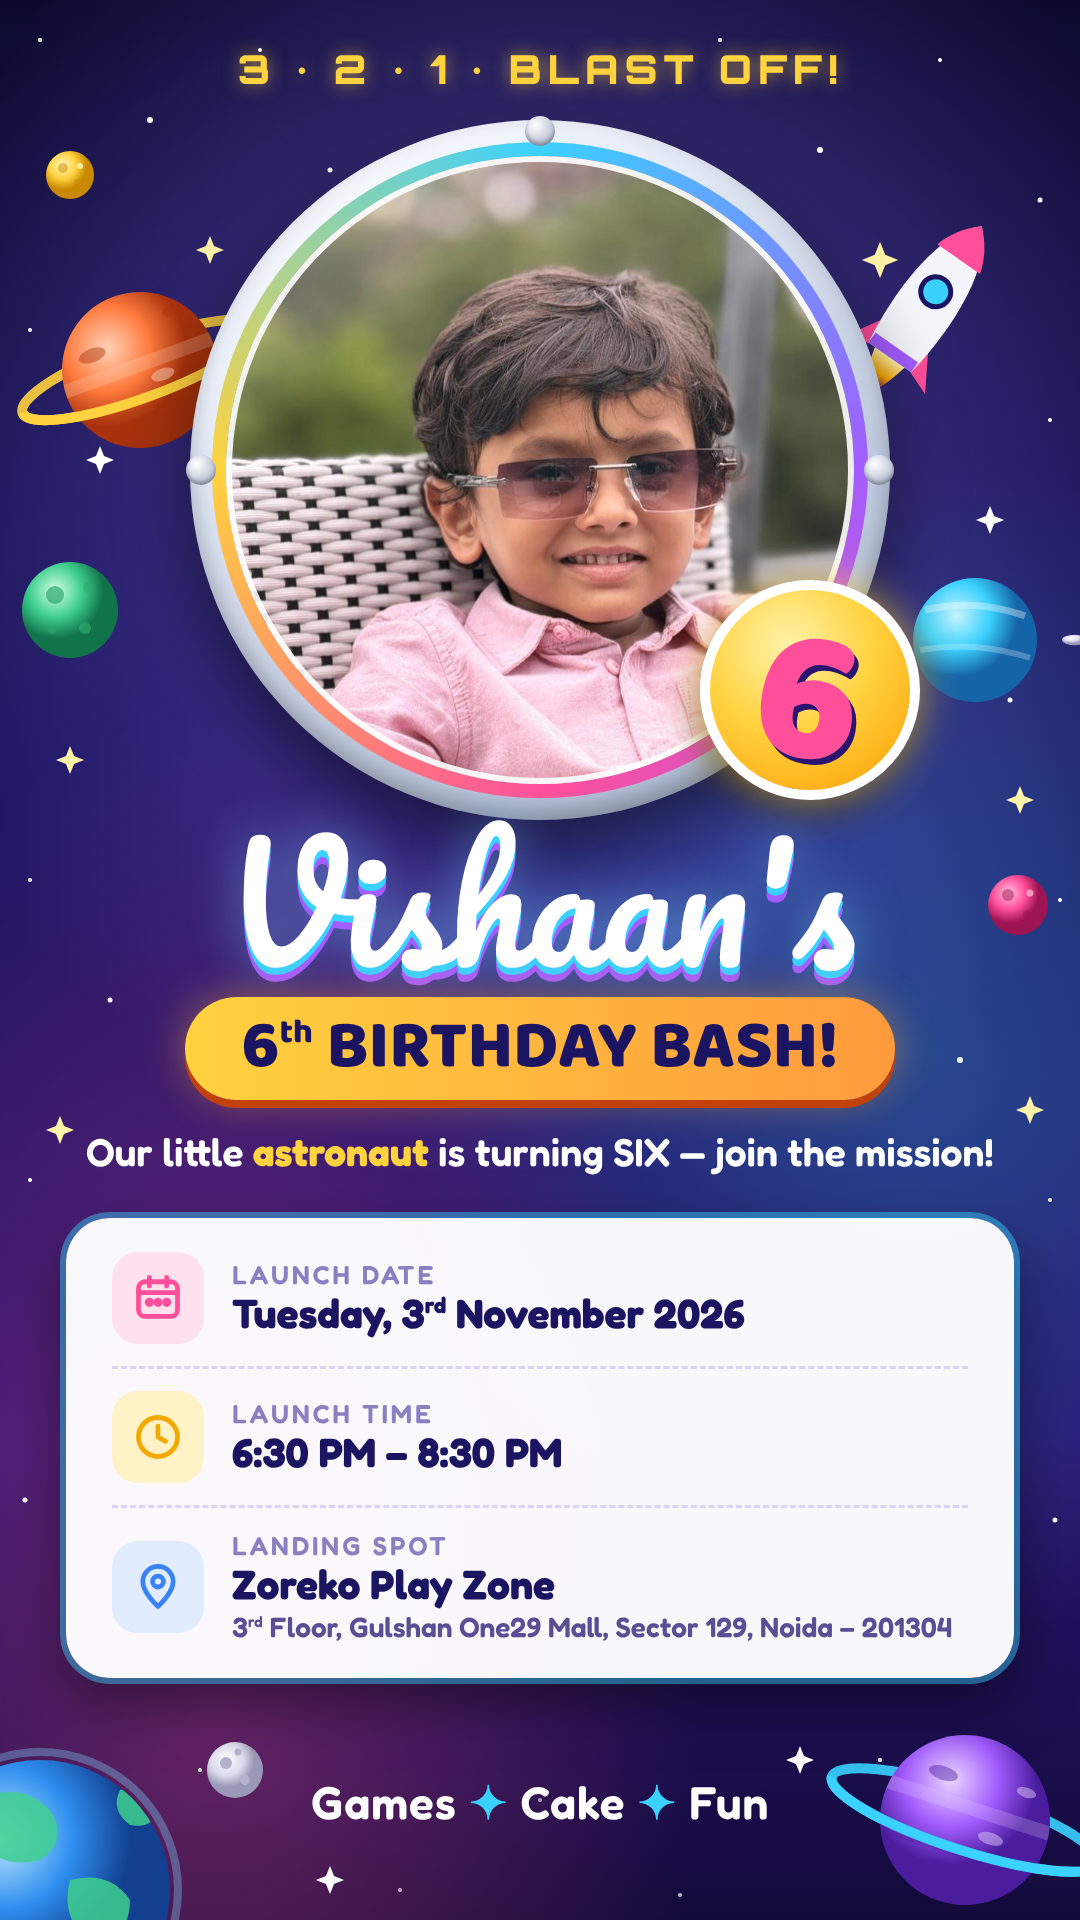
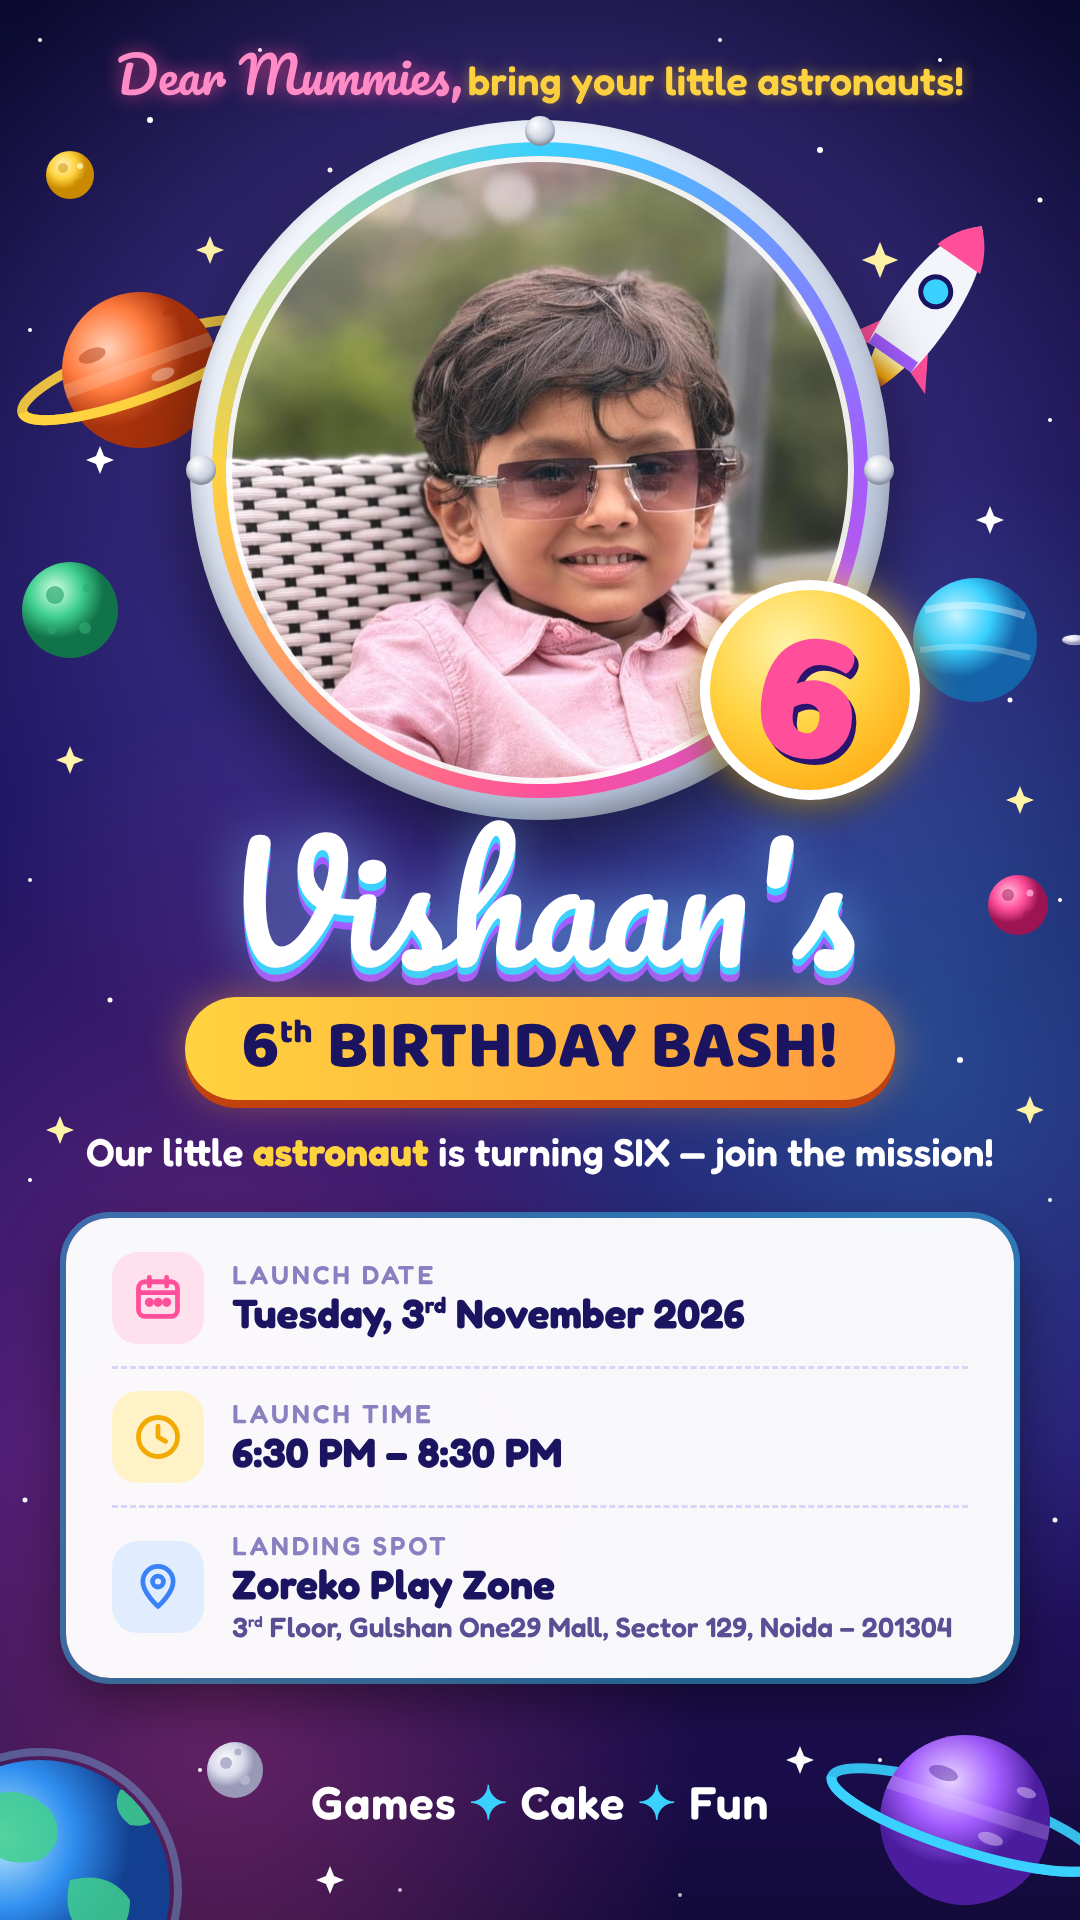
Vishaan invite: 'Dear Mummies' header line
Claude-Session: https://claude.ai/code/session_01TUFe61nJr8jrfSQs2VVnqs

Changed region(s): [[0.0917, 0.0, 0.8861, 0.0625]]

diff --git a/invites/vishaan-6th-birthday/invite.html b/invites/vishaan-6th-birthday/invite.html
@@ -14,7 +14,9 @@
       radial-gradient(circle at 50% 25%, rgba(140,110,255,.55) 0, rgba(140,110,255,0) 45%),
       linear-gradient(180deg,#0b0a2e 0%,#1b1460 45%,#2a1470 75%,#120a3a 100%);}
   .space{position:absolute;inset:0}
-  .head{position:absolute;top:44px;width:100%;text-align:center;color:#fff}
+  .head{position:absolute;top:30px;width:100%;text-align:center;color:#fff}
+  .head .dear{font-family:'Pacifico',cursive;font-size:50px;color:#ff8cc6;text-shadow:0 0 18px rgba(255,79,154,.7)}
+  .head .bring{font-size:40px;font-weight:600;color:#ffd23f;text-shadow:0 0 14px rgba(255,210,63,.5)}
   .small{font-family:'Orbitron';font-weight:900;font-size:40px;letter-spacing:6px;
     color:#ffd23f;text-shadow:0 0 18px rgba(255,210,63,.6)}
   .photo-wrap{position:absolute;left:50%;top:120px;transform:translateX(-50%);width:700px;height:700px}
@@ -190,7 +192,7 @@
 
   </svg>
 
-  <div class="head"><div class="small">3 · 2 · 1 · BLAST OFF!</div></div>
+  <div class="head"><span class="dear">Dear Mummies,</span> <span class="bring">bring your little astronauts!</span></div>
 
   <div class="photo-wrap">
     <div class="glow"></div>
